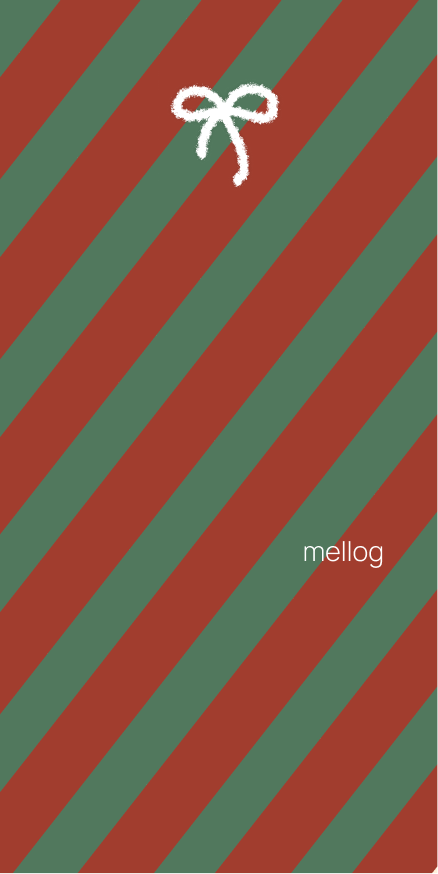
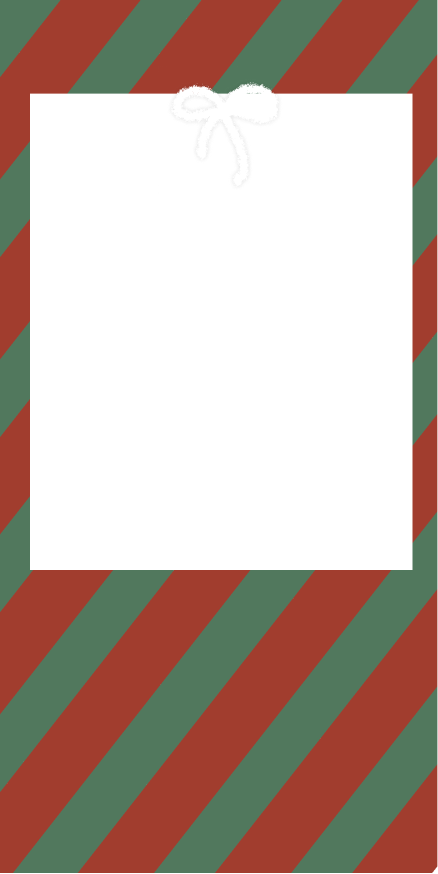
add: christmas image & frame type

diff --git a/components/album/_utli.ts b/components/album/_utli.ts
@@ -10,10 +10,10 @@ import { ImageSourcePropType } from 'react-native';
 export const frameImageMap: Record<FrameType, ImageSourcePropType> = {
   [FrameType.WHITE]: require('@/assets/images/album/frames/white.png'),
   [FrameType.BLACK]: require('@/assets/images/album/frames/black.png'),
-  [FrameType.CHRISTMAS]: require('@/assets/images/album/frames/black.png'),
-  [FrameType.TREE]: require('@/assets/images/album/frames/rainbow.png'),
-  [FrameType.RIBBON]: require('@/assets/images/album/frames/handwriting.png'),
-  [FrameType.LINE]: require('@/assets/images/album/frames/shape.png'),
+  [FrameType.CHRISTMAS]: require('@/assets/images/album/frames/christmas.png'),
+  [FrameType.TREE]: require('@/assets/images/album/frames/tree.png'),
+  [FrameType.RIBBON]: require('@/assets/images/album/frames/ribbon.png'),
+  [FrameType.LINE]: require('@/assets/images/album/frames/line.png'),
   [FrameType.RAINBOW]: require('@/assets/images/album/frames/rainbow.png'),
   [FrameType.HANDWRITING]: require('@/assets/images/album/frames/handwriting.png'),
   [FrameType.SHAPE]: require('@/assets/images/album/frames/shape.png'),

diff --git a/components/album/CustomPolaroid.tsx b/components/album/CustomPolaroid.tsx
@@ -28,7 +28,7 @@ interface CustomPolaroidProps {
 export default function CustomPolaroid({ photo, frame, badge }: PolaroidProps & CustomPolaroidProps) {
   const { image, additional, date } = photo;
 
-  const isBlack = frame === FrameType.BLACK;
+  const isBlack = frame === FrameType.BLACK || FrameType.LINE;
   const textColor = { color: isBlack ? '#E9E9E9' : '#4A4A4A' };
 
   const currentFeelingMap = isBlack ? feelingImageMapWhite : feelingImageMap;
@@ -98,7 +98,7 @@ const styles = StyleSheet.create({
     top: 0,
     left: 0,
     width: CARD_WIDTH,
-    height: '100%',
+    height: 300,
     resizeMode: 'stretch',
   },
 

diff --git a/types/shareType.ts b/types/shareType.ts
@@ -1,6 +1,10 @@
 export enum FrameType {
   WHITE = '흰색',
   BLACK = '검정색',
+  CHRISTMAS = '크리스마스',
+  RIBBON = '리본',
+  LINE = '줄무늬',
+  TREE = '트리',
   RAINBOW = '레인보우',
   HANDWRITING = '손글씨',
   SHAPE = '낙서',
